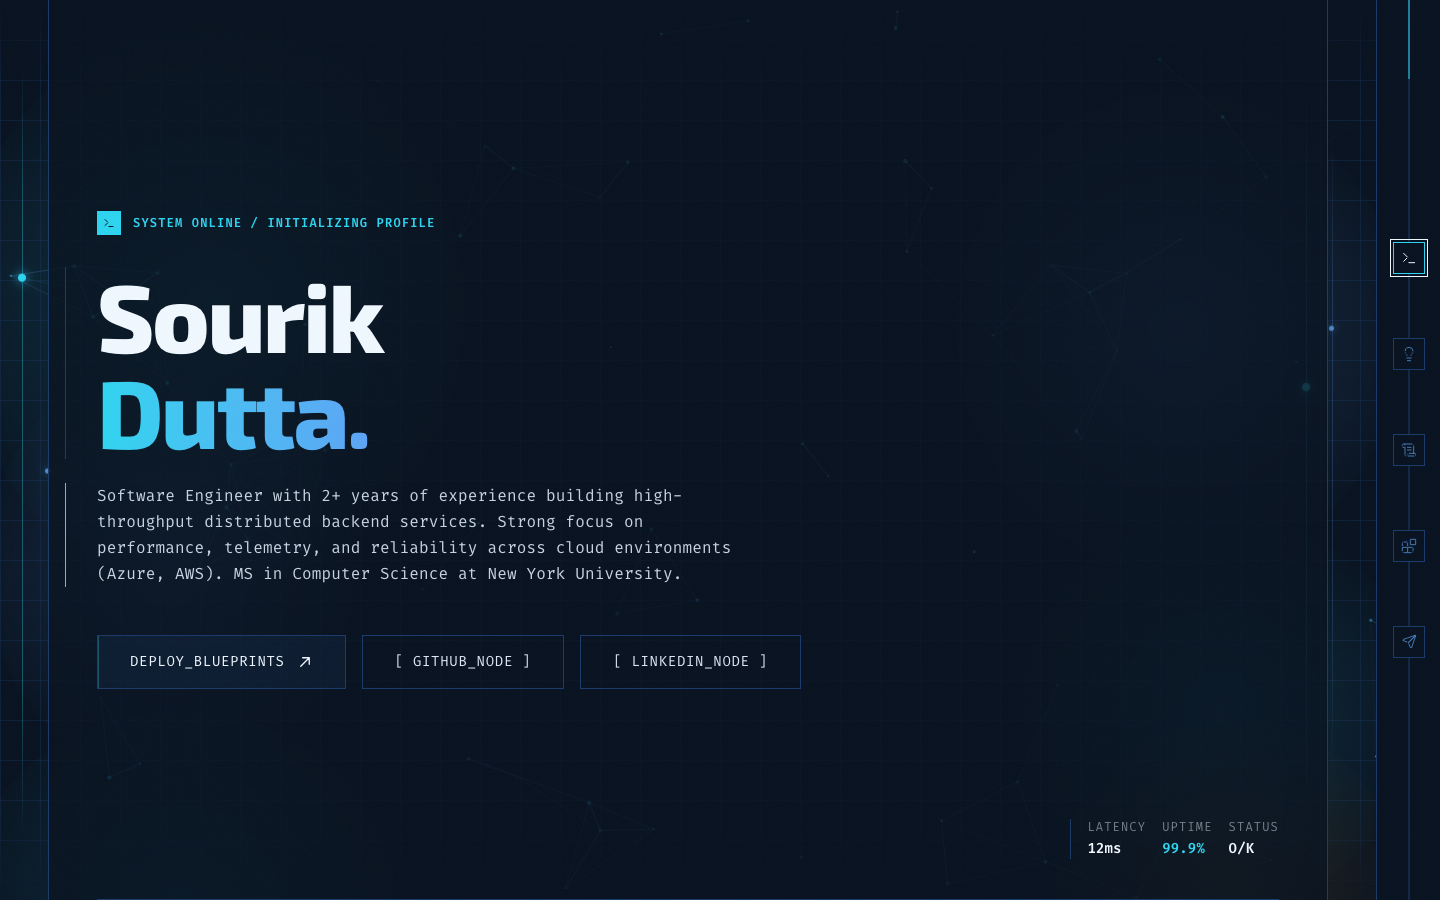
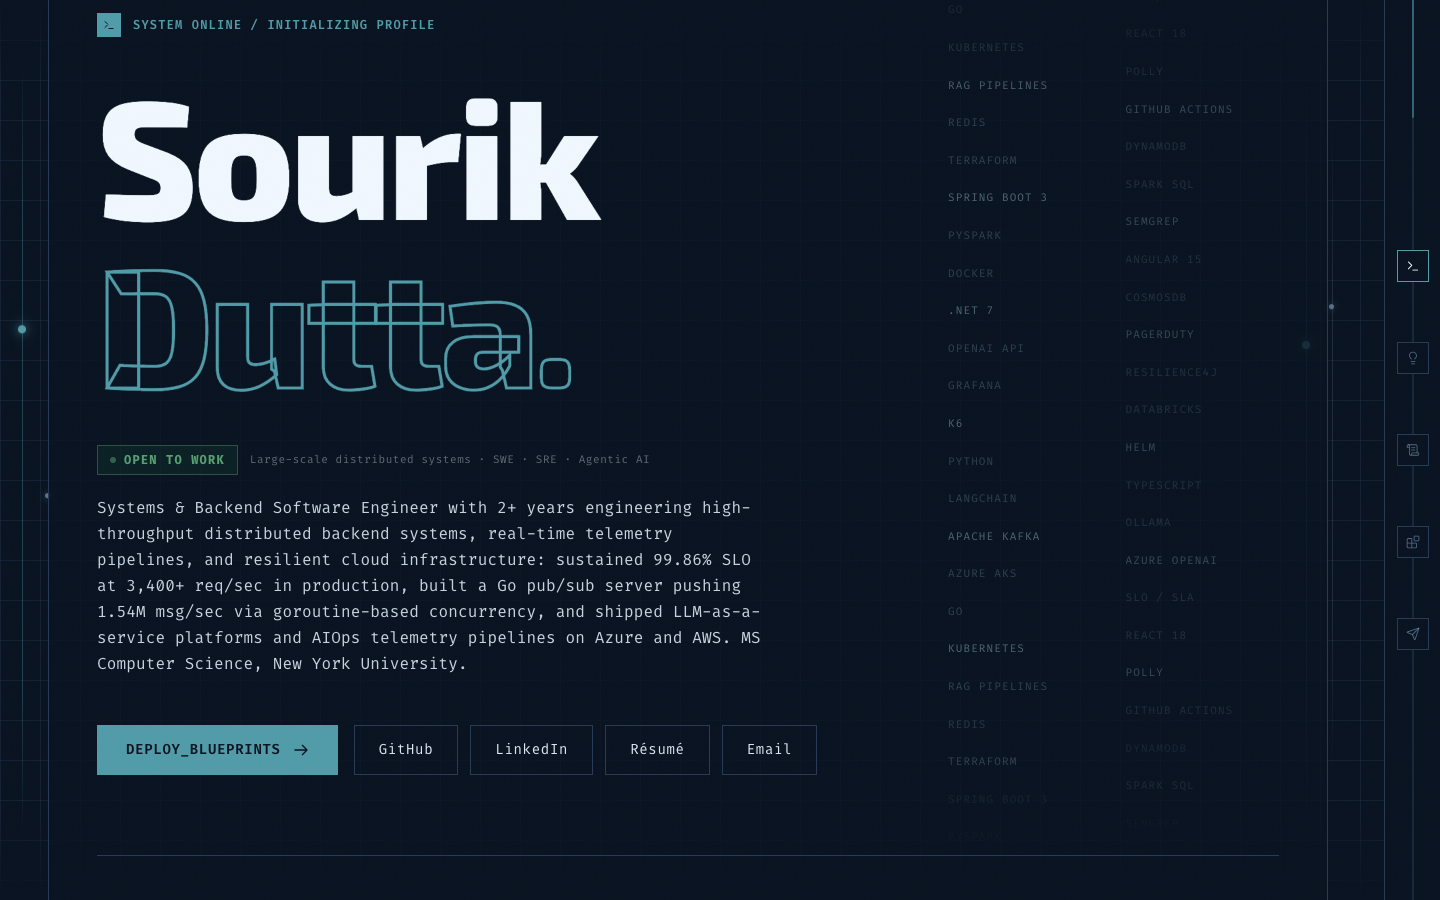
fix(meta): cache-bust preview image URL so LinkedIn refetches

diff --git a/index.html b/index.html
@@ -18,12 +18,12 @@
     <meta property="og:description" content="Full-stack software engineer, about two years shipping distributed backends and real-time frontends at Insight Enterprises and Hanu Software. MS CS, NYU. Explore the projects in a pixel-art night city." />
     <meta property="og:type" content="website" />
     <meta property="og:url" content="https://sourikduttanyu.github.io/Portfolio/" />
-    <meta property="og:image" content="https://sourikduttanyu.github.io/Portfolio/og.png" />
+    <meta property="og:image" content="https://sourikduttanyu.github.io/Portfolio/og.png?v=2" />
     <meta property="og:image:width" content="2400" />
     <meta property="og:image:height" content="1254" />
     <meta property="og:image:alt" content="Pixel-art night city with CRT televisions showing Sourik Dutta's projects" />
     <meta name="twitter:card" content="summary_large_image" />
-    <meta name="twitter:image" content="https://sourikduttanyu.github.io/Portfolio/og.png" />
+    <meta name="twitter:image" content="https://sourikduttanyu.github.io/Portfolio/og.png?v=2" />
     <meta name="twitter:title" content="Sourik Dutta — Software Engineer" />
     <meta name="twitter:description" content="Full-stack software engineer, about two years shipping distributed backends and real-time frontends at Insight Enterprises and Hanu Software. MS CS, NYU. Explore the projects in a pixel-art night city." />
     <script type="application/ld+json">
